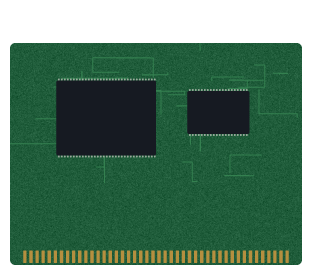
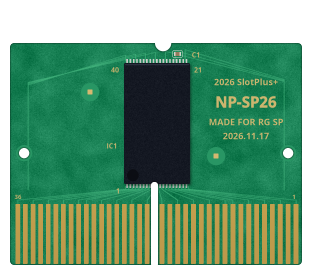
NeoGeo Pocket: START opens the pak to its board, under its foot
- assets/src/carts.py ngp_board draws ngp_board.png after real NeoGeo
  Pocket boards: a bite in the top edge, a tall chip with legs along its
  top and bottom, post pads and edge holes, lettering in bare copper, fine
  traces fanning down to two banks of contacts either side of a slot. The
  copper lettering is slotPlus's own; no makers' names.
- As on the real pak, the foot with its plaques is one piece with the back:
  board_face lays the cart's own foot over the board, so only the tips of
  the contacts show.
- The game's name goes on the chip; shows_board_alone opens it.
- The stickers sit on the left of the board. The board tests now build the
  second board once instead of once a pixel.

Claude-Session: https://claude.ai/code/session_01ECk6CDMKrY89HoAvKfhDo4

diff --git a/assets/src/carts.py b/assets/src/carts.py
@@ -16,9 +16,9 @@ For each mould it writes, into the repository's `assets/`:
     <mould>_board.png     the board a clear cart shows
     <mould>_decal.png     drawn over the shell untinted (contacts, PCB)
 
-usage: python3 assets/src/carts.py [ws|lynx|pm|gg|ngp|tg16|nds ...]
+usage: python3 assets/src/carts.py [ws|lynx|pm|gg|gg_board|ngp|ngp_board|tg16|nds ...]
 
-(pm draws only pm_board.png; the Pokémon mini's other layers come from
+(pm, gg_board and ngp_board draw only the board; the Pokémon mini's other layers come from
 tools/cart_art/pokemini.py.)
 """
 
@@ -881,11 +881,117 @@ def neogeo_pocket():
     interior(c, body, 43, [(w * 0.5, h * 0.16, 8), (w * 0.12, h * 0.6, 6),
                            (w * 0.88, h * 0.6, 6)]).save(os.path.join(ASSETS, "ngp_interior.png"))
 
-    board_region = c.rrect(c.layer(), 10, h * 0.16, w - 10, h - 3, 5)
-    board = pcb(c, board_region, 44, [(w * 0.18, h * 0.3, w * 0.5, h * 0.58),
-                                       (w * 0.6, h * 0.34, w * 0.8, h * 0.5)])
-    board, balpha = fingers(c, w * 0.07, w * 0.93, h * 0.935, h - 5, 44, board,
-                            f(board_region))
+    ngp_board(c)
+
+
+# --------------------------------------------------------------------------
+# The NeoGeo Pocket board, after the real ones: green, a bite out of the top
+# edge, one tall chip with its legs along the top and bottom, a post pad each
+# side of it, a hole near each edge, lettering in bare copper on the right,
+# fine traces fanning down to two banks of long contacts either side of a slot.
+# The pak's foot stays on when the lid comes off, so slot-ui lays it over the
+# bottom of this and only the tips of the contacts show. No makers' names.
+
+NGP_GREEN = np.array([24, 128, 84], np.float32)
+NGP_TRACE = np.array([70, 184, 128], np.float32)
+NGP_COPPER = [214, 184, 112]
+# Where the chip's marking goes; `slot_ui::board` writes the game's name there.
+NGP_ROM = (124, 63, 190, 184)
+NGP_BOARD = (10, 43, 302, 265)
+
+
+def ngp_pcb(c):
+    rng = np.random.default_rng(81)
+    x0, y0, x1, y1 = NGP_BOARD
+    outline = c.rrect(c.layer(), x0, y0, x1, y1, 4)
+    cut = c.layer()
+    c.ellipse(cut, 163 - 8, y0 - 8, 163 + 8, y0 + 8)        # the bite in the top edge
+    c.rrect(cut, 151, 182, 158, y1 + 2, 3)                  # the slot between the banks
+    for hx in (24, 288):
+        c.ellipse(cut, hx - 5, 153 - 5, hx + 5, 153 + 5)    # the holes by the edges
+    region = np.clip(f(outline) - f(cut), 0, 1)
+
+    rgb = np.ones((c.H, c.W, 3), np.float32) * NGP_GREEN
+    blotch = ndimage.gaussian_filter(rng.normal(0, 1, (c.H // 8 + 1, c.W // 8 + 1)), 2.4)
+    blotch = np.kron(blotch / max(blotch.std(), 1e-6), np.ones((8, 8)))[: c.H, : c.W]
+    rgb += (blotch * 5.0)[..., None].astype(np.float32)
+    rgb += grain((c.H, c.W), 82, 3.5)[..., None]
+
+    rx0, ry0, rx1, ry1 = NGP_ROM
+    legs = 20
+    pitch = (rx1 - rx0) / legs
+    bank = 18
+    left = [14 + k * (151 - 14) / bank + (151 - 14) / bank / 2 for k in range(bank)]
+    right = [158 + k * (300 - 158) / bank + (300 - 158) / bank / 2 for k in range(bank)]
+    tip_y = 204
+
+    # Traces: from the legs along the chip's foot, out to either side and down
+    # to the contacts, the outermost leg to the outermost contact so none cross.
+    traces = c.layer()
+    d = ImageDraw.Draw(traces)
+    for i in range(legs):
+        lx = rx0 + pitch * (i + 0.5)
+        if i < legs // 2:
+            fx = left[int(round(i * (bank - 1) / (legs // 2 - 1)))]
+        else:
+            n = legs - 1 - i
+            fx = right[bank - 1 - int(round(n * (bank - 1) / (legs // 2 - 1)))]
+        route(d, [(lx, ry1 + 2), (lx, ry1 + 5), (fx, tip_y - 4), (fx, tip_y)], 0.9)
+    # Some from the top legs off to the posts and round the edges.
+    for i in range(0, legs, 3):
+        lx = rx0 + pitch * (i + 0.5)
+        side = -1 if lx < (rx0 + rx1) / 2 else 1
+        ex = (x0 + 18) if side < 0 else (x1 - 18)
+        route(d, [(lx, ry0 - 2), (lx, ry0 - 8 - i * 0.3), (ex, ry0 - 8 - i * 0.3 + 30),
+                  (ex, 190)], 0.9)
+    rgb = paint(rgb, soft(f(traces), 0.2), NGP_TRACE, 0.8)
+
+    # The chip, legs along its top and bottom.
+    rgb = chip_with_legs(c, rgb, rx0, ry0, rx1, ry1, "tb", pitch, leg=4.0, seed=83)
+
+    copper = lambda rgb, mask: paint(rgb, mask, NGP_COPPER, 0.95)
+    rgb = copper(rgb, f(c.text(c.layer(), 115, 70, "40", 7)))
+    rgb = copper(rgb, f(c.text(c.layer(), 198, 70, "21", 7)))
+    rgb = copper(rgb, f(c.text(c.layer(), 118, 191, "1", 7)))
+    rgb = copper(rgb, f(c.text(c.layer(), 112, 146, "IC1", 7)))
+    rgb = copper(rgb, f(c.text(c.layer(), 196, 55, "C1", 7)))
+    rgb = copper(rgb, f(c.text(c.layer(), 18, 197, "36", 6)))
+    rgb = copper(rgb, f(c.text(c.layer(), 294, 197, "1", 6)))
+    # The lettering on the right, where the real boards have theirs.
+    rgb = copper(rgb, f(c.text(c.layer(), 246, 82, "2026 SlotPlus+", 9)))
+    rgb = copper(rgb, f(c.text(c.layer(), 246, 102, "NP-SP26", 15, weight=0.3)))
+    rgb = copper(rgb, f(c.text(c.layer(), 246, 122, "MADE FOR RG SP", 9)))
+    rgb = copper(rgb, f(c.text(c.layer(), 246, 136, "2026.11.17", 9)))
+
+    # C1, the post pads, and copper round the holes.
+    rgb = passive(c, rgb, 174, 52, False)
+    for px, py in ((90, 92), (216, 156)):
+        rgb = paint(rgb, f(c.ellipse(c.layer(), px - 9, py - 9, px + 9, py + 9)), [40, 150, 100])
+        rgb = paint(rgb, f(c.rrect(c.layer(), px - 2.5, py - 2.5, px + 2.5, py + 2.5, 0.4)), NGP_COPPER)
+    for hx in (24, 288):
+        ring = np.clip(f(c.ellipse(c.layer(), hx - 8, 145, hx + 8, 161)) - f(cut), 0, 1)
+        rgb = paint(rgb, ring, [40, 150, 100])
+
+    dist = ndimage.distance_transform_edt(region > 0.5) / S
+    rgb = rgb * (1 - 0.3 * np.clip(1.6 - dist, 0, 1))[..., None]
+    rgb = rgb * region[..., None]
+    alpha = region
+
+    # Two banks of long contacts, either side of the slot.
+    gold = c.layer()
+    for xs in (left, right):
+        w = (xs[1] - xs[0]) * 0.62
+        for x in xs:
+            c.rrect(gold, x - w / 2, tip_y, x + w / 2, y1 - 1, 0.6)
+    g = f(gold) * region
+    shine = np.linspace(1.06, 0.88, c.H)[:, None]
+    rgb = rgb * (1 - g[..., None]) + (np.array([212, 172, 84], np.float32) * shine[..., None]) * g[..., None]
+    return rgb, alpha
+
+
+def ngp_board(c=None):
+    """Only the board, after the real ones (see ngp_pcb)."""
+    board, balpha = ngp_pcb(c or Canvas(312, 268))
     rgba_colour(board, balpha).save(os.path.join(ASSETS, "ngp_board.png"))
 
 
@@ -1137,6 +1243,7 @@ MOULDS = {
     "gg": gamegear,
     "gg_board": gg_board,
     "ngp": neogeo_pocket,
+    "ngp_board": ngp_board,
     "tg16": turbochip,
     "nds": ds_card,
 }

diff --git a/crates/slot-ui/tests/board.rs b/crates/slot-ui/tests/board.rs
@@ -571,9 +571,10 @@ fn a_pokemon_mini_cart_shows_its_own_board_with_the_game_on_its_chip() {
         slot_ui::PM_ROM_W,
         slot_ui::PM_ROM_H,
     );
+    let other = board_face(&other);
     let differs = (chip.0..chip.0 + chip.2)
         .flat_map(|x| (chip.1..chip.1 + chip.3).map(move |y| (x, y)))
-        .filter(|&(x, y)| at(&face, x, y) != at(&board_face(&other), x, y))
+        .filter(|&(x, y)| at(&face, x, y) != at(&other, x, y))
         .count();
     assert!(differs > 30, "each game's name is on its chip: {differs}");
     let (sw, sh) = (
@@ -621,9 +622,10 @@ fn a_game_gear_cart_shows_its_own_board_with_the_game_on_its_chip() {
         slot_ui::GG_ROM_W,
         slot_ui::GG_ROM_H,
     );
+    let other = board_face(&other);
     let differs = (chip.0..chip.0 + chip.2)
         .flat_map(|x| (chip.1..chip.1 + chip.3).map(move |y| (x, y)))
-        .filter(|&(x, y)| at(&face, x, y) != at(&board_face(&other), x, y))
+        .filter(|&(x, y)| at(&face, x, y) != at(&other, x, y))
         .count();
     assert!(differs > 30, "each game's name is on its chip: {differs}");
     let (sw, sh) = (
@@ -639,5 +641,58 @@ fn a_game_gear_cart_shows_its_own_board_with_the_game_on_its_chip() {
             "below the chip, above the contacts"
         );
         assert!(x >= 12 && x + sw <= 340, "on the board");
+    }
+}
+
+#[test]
+fn a_neogeo_pocket_cart_shows_its_own_board_under_its_foot() {
+    let pm = Cart {
+        platform: Platform::Ngp,
+        rom: "Games/NGP/Metal Slug 1st Mission.ngc".into(),
+        ..cart("Metal Slug 1st Mission", "")
+    };
+    let other = Cart {
+        stem: "SNK vs. Capcom".into(),
+        ..pm.clone()
+    };
+    let face = board_face(&pm);
+    assert_eq!((face.w, face.h), (312, 268), "the board fills the cart");
+    let at = |f: &CartFace, x: u32, y: u32| {
+        let i = ((y * f.w + x) * 4) as usize;
+        [f.rgba[i], f.rgba[i + 1], f.rgba[i + 2], f.rgba[i + 3]]
+    };
+    let green = at(&face, 60, 60);
+    assert!(
+        green[1] > green[0] + 40 && green[3] == 255,
+        "green board: {green:?}"
+    );
+    assert_eq!(at(&face, 4, 20)[3], 0, "nothing outside the board");
+    let chip = (
+        slot_ui::NGP_ROM_X,
+        slot_ui::NGP_ROM_Y,
+        slot_ui::NGP_ROM_W,
+        slot_ui::NGP_ROM_H,
+    );
+    let other = board_face(&other);
+    let differs = (chip.0..chip.0 + chip.2)
+        .flat_map(|x| (chip.1..chip.1 + chip.3).map(move |y| (x, y)))
+        .filter(|&(x, y)| at(&face, x, y) != at(&other, x, y))
+        .count();
+    assert!(differs > 30, "each game's name is on its chip: {differs}");
+    // The foot stays on, in the cart's own face, hiding the contacts.
+    let front = slot_ui::cart_face_with(&pm, None);
+    for (x, y) in [(60, 240), (156, 230), (250, 255)] {
+        assert_eq!(at(&face, x, y), at(&front, x, y), "the foot at {x},{y}");
+    }
+    let (sw, sh) = (
+        slot_ui::shelf_life::STICKER_W,
+        slot_ui::shelf_life::STICKER_H,
+    );
+    let play = slot_ui::shelf_life::sticker_at(&pm, &face).expect("a play-time spot");
+    let gold = slot_ui::shelf_life::gold_sticker_at(&pm, &face).expect("a gold spot");
+    assert!(play.1 + sh <= gold.1, "one above the other");
+    for (x, y) in [play, gold] {
+        assert!(y > 43 && y + sh < 211, "on the board, above the foot");
+        assert!(x >= 10 && x + sw < slot_ui::NGP_ROM_X, "left of the chip");
     }
 }

diff --git a/crates/slot-ui/src/board.rs b/crates/slot-ui/src/board.rs
@@ -82,13 +82,25 @@ pub const GG_ROM_X: u32 = 136;
 pub const GG_ROM_Y: u32 = 112;
 pub const GG_ROM_W: u32 = 66;
 pub const GG_ROM_H: u32 = 90;
+/// slotPlus: the same on the NeoGeo Pocket board's tall chip, as `NGP_ROM` in carts.py.
+pub const NGP_ROM_X: u32 = 124;
+pub const NGP_ROM_Y: u32 = 63;
+pub const NGP_ROM_W: u32 = 66;
+pub const NGP_ROM_H: u32 = 121;
+/// slotPlus: where a NeoGeo Pocket pak's foot starts. The foot, with its plaques, is one
+/// piece with the back, so it stays on when the lid comes off and hides most of the
+/// contacts.
+const NGP_FOOT_Y: u32 = 211;
 
 /// slotPlus: carts whose back can be turned to, with nothing to pick there, only the
 /// board (and the play-time sticker) to see.
 pub fn shows_board_alone(platform: slot_store::Platform) -> bool {
     matches!(
         platform,
-        slot_store::Platform::Ws | slot_store::Platform::Pm | slot_store::Platform::Gg
+        slot_store::Platform::Ws
+            | slot_store::Platform::Pm
+            | slot_store::Platform::Gg
+            | slot_store::Platform::Ngp
     )
 }
 
@@ -134,6 +146,10 @@ pub fn board_face(cart: &Cart) -> CartFace {
         slot_store::Platform::Gg => {
             Some((bitmaps::Mould::Gg, (GG_ROM_X, GG_ROM_Y, GG_ROM_W, GG_ROM_H)))
         }
+        slot_store::Platform::Ngp => Some((
+            bitmaps::Mould::Ngp,
+            (NGP_ROM_X, NGP_ROM_Y, NGP_ROM_W, NGP_ROM_H),
+        )),
         _ => None,
     };
     if let Some((mould, (x, y, w, h))) = chip {
@@ -145,6 +161,13 @@ pub fn board_face(cart: &Cart) -> CartFace {
         };
         let mark = marking_sized(&rom_marking(&cart.stem), w, h);
         over(&mut face, &mark, x, y);
+        if cart.platform == slot_store::Platform::Ngp {
+            keep_foot(
+                &mut face,
+                &crate::cart::cart_face_with(cart, None),
+                NGP_FOOT_Y,
+            );
+        }
         return face;
     }
     let mut face = CartFace {
@@ -154,6 +177,22 @@ pub fn board_face(cart: &Cart) -> CartFace {
     };
     over(&mut face, &rom_marking_face(&cart.stem), ROM_X, ROM_Y);
     face
+}
+
+/// Lay the rows of the cart's own face from `from_y` down over the board: the part of
+/// the shell that stays when the lid comes off.
+fn keep_foot(board: &mut CartFace, front: &CartFace, from_y: u32) {
+    if (board.w, board.h) != (front.w, front.h) {
+        return;
+    }
+    let start = (from_y * front.w * 4) as usize;
+    let mut foot = CartFace {
+        rgba: vec![0; front.rgba.len()],
+        w: front.w,
+        h: front.h,
+    };
+    foot.rgba[start..].copy_from_slice(&front.rgba[start..]);
+    over(board, &foot, 0, 0);
 }
 
 fn ink_band(

diff --git a/crates/slot-ui/src/shelf_life.rs b/crates/slot-ui/src/shelf_life.rs
@@ -1311,7 +1311,7 @@ fn paste(back: &mut CartFace, paper: &[u8], sw: u32, sh: u32, (x0, y0): (u32, u3
 }
 
 /// Where a play-time sticker goes on the back of a cart: on the board of a GBA or Game Boy
-/// or WonderSwan or Pokémon mini or Game Gear cart, low on the back of a Lynx card, and beside the Notes
+/// or WonderSwan, Pokémon mini, Game Gear or NeoGeo Pocket cart, low on the back of a Lynx card, and beside the Notes
 /// on the back of a HuCard. Other carts have no back to show yet.
 pub fn sticker_at(cart: &Cart, back: &CartFace) -> Option<(u32, u32)> {
     use slot_store::Platform;
@@ -1327,6 +1327,8 @@ pub fn sticker_at(cart: &Cart, back: &CartFace) -> Option<(u32, u32)> {
         Platform::Pm => (38, 126),
         // Low on the Game Gear board, either side of the hole below the chip.
         Platform::Gg => (24, 212),
+        // On the left of the NeoGeo Pocket board, above the foot.
+        Platform::Ngp => (34, 104),
         Platform::Gb | Platform::Gbc if gb_shell_of(cart).is_some() => (28, 14),
         // To the right of the Notes on a HuCard's back, clear of the NAME line.
         Platform::Tg16 => (124, 141),
@@ -1358,6 +1360,7 @@ pub fn gold_sticker_at(cart: &Cart, back: &CartFace) -> Option<(u32, u32)> {
         Platform::Ws => (66, 114),
         Platform::Pm => (186, 126),
         Platform::Gg => (252, 212),
+        Platform::Ngp => (34, 166),
         Platform::Gb | Platform::Gbc if gb_shell_of(cart).is_some() => (28, 46),
         Platform::Tg16 => (124, 173),
         _ => return None,

diff --git a/crates/slot/tests/app.rs b/crates/slot/tests/app.rs
@@ -2796,6 +2796,28 @@ fn start_on_a_game_gear_cart_shows_its_board_alone() {
     assert!(!d.path().join(slot_store::SELECTED_CORE_FILE).exists());
 }
 
+/// slotPlus: and a NeoGeo Pocket pak.
+#[test]
+fn start_on_a_neogeo_pocket_cart_shows_its_board_alone() {
+    let d = common::tmp_root_with_carts(&[]);
+    let ngp = d.path().join("Games/NGP");
+    std::fs::create_dir_all(&ngp).unwrap();
+    for stem in ["Metal Slug 1st Mission", "SNK vs. Capcom"] {
+        std::fs::write(ngp.join(format!("{stem}.ngc")), vec![0u8; 0x10000]).unwrap();
+    }
+    let (d, mut app) = booted_on_shelf(d);
+    fake_picker_faces(&mut app);
+    assert_eq!(app.selected_cart().map(|c| c.platform), Some(Platform::Ngp));
+    app.apply(Action::GbaDown(Btn::Start));
+    assert_eq!(app.core_picker(), Some(Core::Ngp));
+    let_it_hop(&mut app);
+    app.apply(Action::GbaDown(Btn::B));
+    let_it_close(&mut app);
+    let_it_close(&mut app);
+    assert_eq!(app.core_picker(), None);
+    assert!(!d.path().join(slot_store::SELECTED_CORE_FILE).exists());
+}
+
 /// slotPlus: a Pokémon mini cart opens the same way, to its board.
 #[test]
 fn start_on_a_pokemon_mini_cart_shows_its_board_alone() {

diff --git a/crates/slot-ui/src/lib.rs b/crates/slot-ui/src/lib.rs
@@ -72,7 +72,7 @@ pub use board::{
     shelf_cart, shelf_cart_at, shelf_cart_shaped, slide_of, socket_face, socket_face_text,
     update_cart_face, Placed, Seats, BOARD_H, BOARD_W, BOARD_Y, CHIP_H, CHIP_TIP, CHIP_U, CHIP_V,
     CHIP_W, FINGERS, FINGER_H, FINGER_Y, GBA_SEATS, HOLD_NAMES, HOP_LIFT, LID_TURN, ROM_H, ROM_W, ROM_X, ROM_Y,
-    WS_ROM_H, WS_ROM_W, WS_ROM_X, WS_ROM_Y, PM_ROM_H, PM_ROM_W, PM_ROM_X, PM_ROM_Y, GG_ROM_H, GG_ROM_W, GG_ROM_X, GG_ROM_Y,
+    WS_ROM_H, WS_ROM_W, WS_ROM_X, WS_ROM_Y, PM_ROM_H, PM_ROM_W, PM_ROM_X, PM_ROM_Y, GG_ROM_H, GG_ROM_W, GG_ROM_X, GG_ROM_Y, NGP_ROM_H, NGP_ROM_W, NGP_ROM_X, NGP_ROM_Y,
     SHADOW_H, SHADOW_W, SLIDE_SHARE, SLIDE_UP, SOCKET_H, SOCKET_U, SOCKET_V, SOCKET_W, TURN_PAD,
 };
 pub use cart::{

diff --git a/CHANGELOG.md b/CHANGELOG.md
@@ -8,6 +8,7 @@ Work toward slotPlus 3.0, "the cart remembers", on the `cart-remembers` and `car
 - **A WonderSwan board.** START on a WonderSwan cart now opens it to show its board, drawn after Bandai's own: the coin cell in its clip, the ROM with the game's name on it, the mapper, the save RAM and the band of vias over the contacts. A or B closes it. The same board shows through clear WonderSwan shells. slotPlus's own boards (WonderSwan, Lynx) are marked "2026 SlotPlus+".
 - **Inside the Pokémon mini cart.** START now opens a Pokémon mini cart to its board, as it opens a WonderSwan's, drawn after a real one: one wide chip with the game's name on it, the small parts round it, and two rows of gold contacts. Its play-time and achievements stickers go low on the board, so a Pokémon mini shows its play time at last. A clear shell shows the new board through it.
 - **Inside the Game Gear pak** (slotPlusUltra). START opens a Game Gear pak to its board, drawn after the real ones: one tall chip with the game's name on it, a capacitor each side, a big hole below the chip, bundles of traces and two rows of gold contacts. Its stickers go low on either side, so Game Gear games show their play time. A clear shell shows the new board through it.
+- **Inside the NeoGeo Pocket pak** (slotPlusUltra). START opens a NeoGeo Pocket pak to its board, drawn after the real ones: one tall chip with the game's name on it, lettering in bare copper, and fine traces fanning down to two banks of contacts. As on the real pak, the foot with its plaques stays on, hiding most of the contacts. Its stickers sit on the left of the board, so NeoGeo Pocket games show their play time. A clear shell shows the new board through it.
 - **Icons on the stickers.** The play-time sticker has a tiny stopwatch printed in its top right corner, and the gold achievements sticker a tiny trophy, on every cart that shows them.
 - **Shelf Life**, a new page at the foot of Settings → Shelf, with three switches, all on to start:
   - **Shrink Wrap:** a game you've never played sits on the shelf in shrink wrap: clear film that hangs a little loose around the cart, wavy at the edges, cloudy and glossy, creased where it folds, with a crimped seal along the top. Each wrapped game carries a price sticker on the film: a marked-down yellow tag, a price-gun label, a scalloped label with a stock number or a shop label. Which one, its price and its corner come from the game, so a game always wears the same sticker. The price is in the money of where the game was sold: yen (¥4,800) on a Japan-only release, euros (29,99 €) on a release for Europe only, and dollars otherwise, including when a game was sold in more than one of them. The first time you put the cart in, the film rips down the middle with a crackle of cellophane and its two halves peel away, sticker and all, before the cart goes into the slot. A game with a save on the card, or on the Recents shelf, is never wrapped.

diff --git a/SYSTEMS.md b/SYSTEMS.md
@@ -129,7 +129,7 @@ The buttons follow the TurboExpress's layout: II on the left, I on the right.
 | **Picture** | The 160x152 screen at 3x, or stretched to fill the screen. |
 | **Shaders** | Off, LCD3x, Grid, Simpletex, Shimmerless. |
 | **Bezel** | A bundled Default with the NeoGeo Pocket name and logo down the left side, or your own in `Bezels/NGP/`. |
-| **Cart** | The NeoGeo Pocket pak: a ridged cap, the label in a recessed frame, and a lower band with SNK and NGP plaques and a down arrow. Dark grey by default. |
+| **Cart** | The NeoGeo Pocket pak: a ridged cap, the label in a recessed frame, and a lower band with SNK and NGP plaques and a down arrow. Dark grey by default. START opens it to its board, drawn after the real ones: one tall chip with the game's name on it, lettering in bare copper, and fine traces fanning down to two banks of contacts. As on the real pak, the foot with its plaques stays on, so only the tips of the contacts show. The play-time and gold achievements stickers sit on the left of the board. A clear shell shows the same board through it. |
 | **Saves** | `Saves/NGP/<game name>.flash`. |
 
 The core writes its `.flash` save itself when the game stops. Eject the cart, power off or restart from the menu as usual, and slotPlus stops the core first so the save is written. Switching off with the power switch mid-game can lose it.
